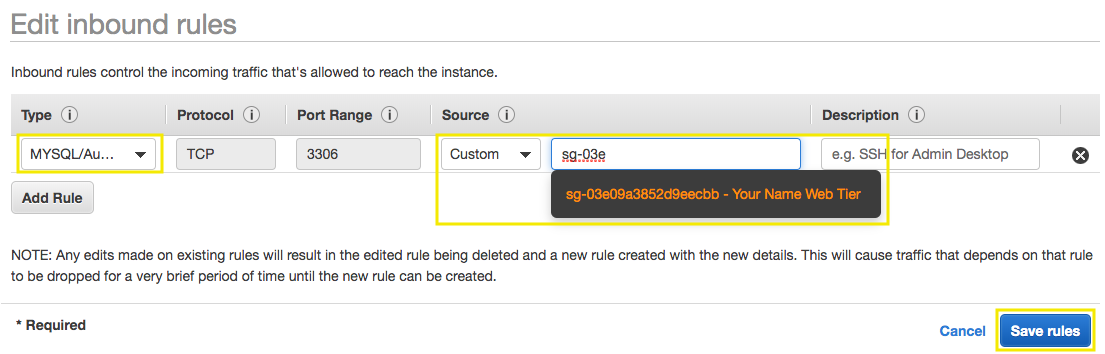
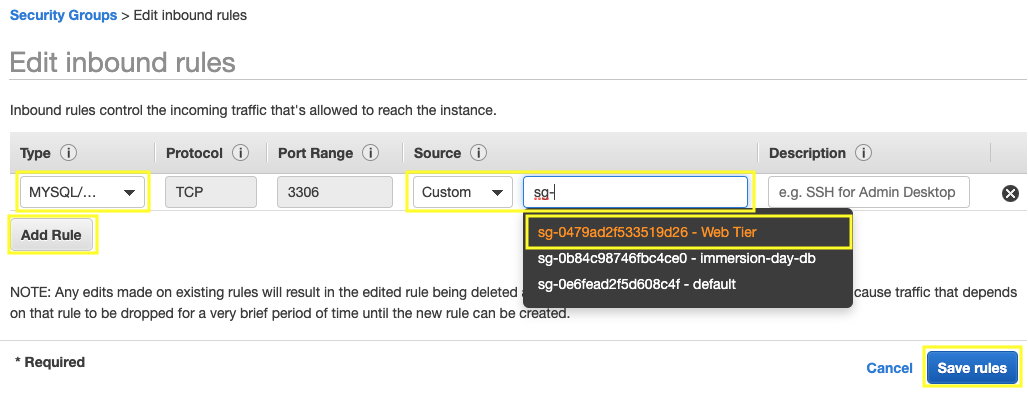
RDS update

diff --git a/docs/getting-started-with-amazon-rds-new.md b/docs/getting-started-with-amazon-rds-new.md
@@ -14,6 +14,8 @@
 
 1.4\. For the **Security group name** and **Description** type `immersion-day-db`. For **VPC** select your VPC ID **My VPC**, and choose **Create** and **Close**.
 
+![RDS Create SG](images/vpc-sg-db.png)
+
 1.5\. Select the security group **immersion-day-db**, on the **Inbound Rules** tab, choose **Edit rules**.
 
 ![RDS Select SG](images/rds-select-sg.png)
@@ -23,7 +25,7 @@
 * **Type:** `MYSQL/Aurora`
 * **Protocol:** `TCP`
 * **Port Range:** `3306`
-* **Source:** `Custom sg-XXXXXXX` Type `sg-` and select the security group ID for **Your Name Web Tier**
+* **Source:** `Custom sg-XXXXXXX` Type `sg-` and select the security group ID for **Web Tier**
 
 ![RDS SG](images/rds-sg-create.png)
 
@@ -33,19 +35,17 @@
 
 You will create a DB subnet group that is a collection of subnets (private subnets) designated for your DB instance.
 
-2.1\.	Open the Amazon RDS console at  https://console.aws.amazon.com/rds.
+2.1\. Open the Amazon RDS console at  https://console.aws.amazon.com/rds.
 
-2.2\.	In the navigation pane, choose **Subnet groups** and click on **Create DB Subnet Group**.
+2.2\. In the navigation pane, choose **Subnet groups** and click on **Create DB Subnet Group**.
 
 ![RDS Create Subnet Group](images/rds-choose-subnet-groups.png)
 
-2.3\.	For **Name** and **Description** type `PrivateDBGroup`.
+2.3\. For **Name** and **Description** type `PrivateDBGroup`.
 
-2.4\.	For the VPC select **My VPC**.
+2.4\. For the VPC select **My VPC**.
 
-2.5\.	In **Add subnets** section, select the Private Subnets, from **us-east-1a** select **10.1.2.0/24** (Private Subnet 01), choose **Add subnet** and for **us-east-1b** select **10.1.3.0/24** (Private Subnet 02), choose **Add subnet**.
-
-2.6\.	Choose **Create**.
+2.5\. In **Add subnets** section, select the Private Subnets, from **us-east-1a** select **10.0.2.0/24** (Private Subnet 01), and for **us-east-1b** select **10.0.3.0/24** (Private Subnet 02). Choose **Create**.
 
 ![RDS Subnet Group](images/rds-subnet-group.png)
 
@@ -59,7 +59,7 @@ Now that our VPC security group and subnet group are ready, let’s configure an
 
 ![RDS Create Database](images/rds-launch.png)
 
-3.3\. We will be using a MySQL database, so choose **MySQL** from the **Engine Options**, scroll down and in **Templates** section select **Free tier**.
+3.3\. We will be using a **Standard Create** method, choose **MySQL** from the **Engine Options**, scroll down and in **Templates** section select **Free tier**.
 
 ![RDS Engine](images/rds-engine-new.png)
 

diff --git a/docs/getting-started-with-linux-on-amazon-ec2.md b/docs/getting-started-with-linux-on-amazon-ec2.md
@@ -30,6 +30,8 @@ With the following steps you will create a unique SSH keypair to connect to your
 
 ## 2. Create an IAM Role for your EC2 instance
 
+We are going to create an IAM role and attach it to an instance during or after launch. With this we will have permissions for AWS Systems Manager to use Session Manager and have access to the Linux EC2 instance.
+
 2.1\. Open the IAM console at https://console.aws.amazon.com/iam/.
 
 2.2\. In the navigation pane, choose **Roles** and then choose **Create role**.
@@ -119,10 +121,12 @@ You should see a website that looks like the following:
 
 ## 5. Connect to the shell of you Linux EC2 instance
 
+[!embed?max_width=1200](https://www.youtube.com/watch?v=MK4ZoCs-muo)
+
 You can use the key pair to connect to your Linux EC2 instance by SHH client, for this purpose we are going to use [AWS Systems Manager](https://aws.amazon.com/systems-manager/) using [Session Manager](https://docs.aws.amazon.com/systems-manager/latest/userguide/session-manager.html).
 Systems Manager Gain Operational Insight and Take Action on AWS Resources. We are going to take a look a just one of seven capabilities of Systems Manager.
 
-5.1\. Open de **AWS Systems Manager** console at https://console.aws.amazon.com/systems-manager/. 
+5.1\. Open de AWS Systems Manager console at https://console.aws.amazon.com/systems-manager/. 
 
 5.2\. From the menu on the left, scroll down and select **Session Manager**. Session Manager allows us to use IAM roles and policies to determine who has console access without having to manage SSH keys for our instances. In the main pane, click the **Start session** button. 
 
